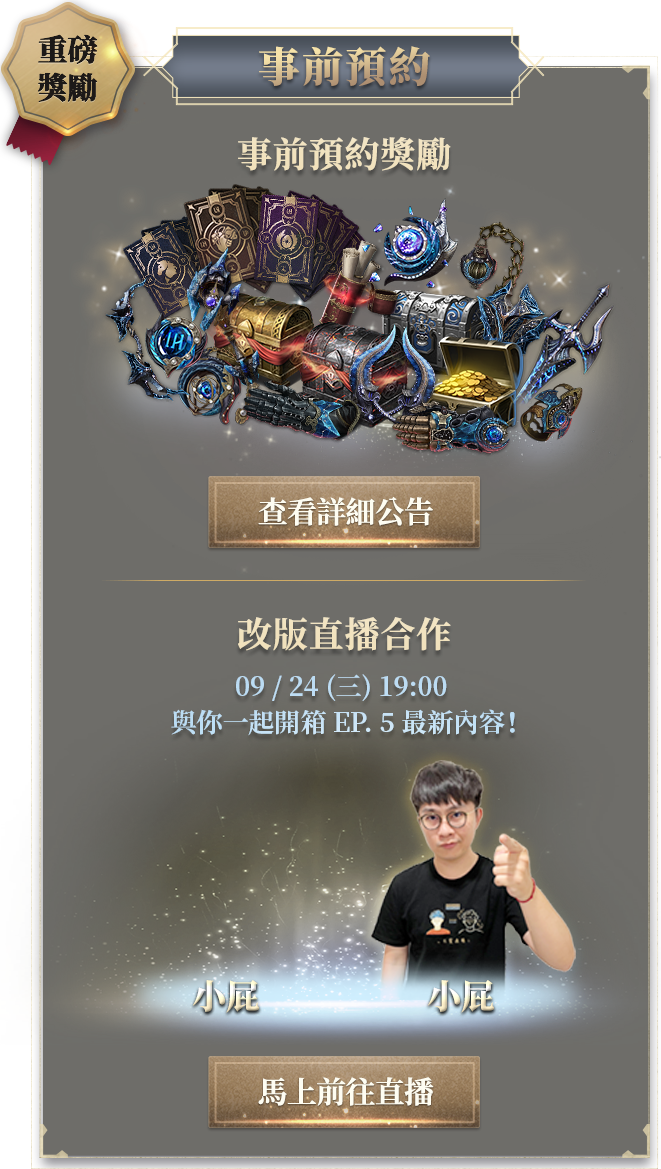
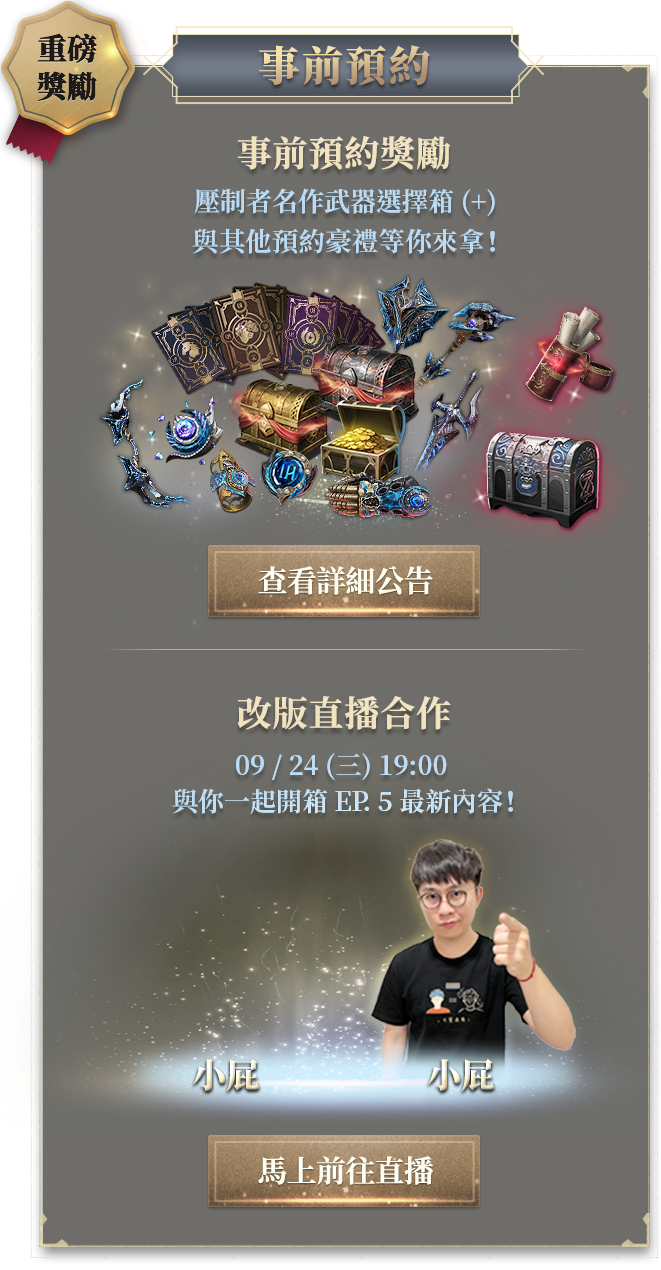
2025/08/31 version3

Changed region(s): [[0.0, 0.0, 0.9985, 0.4927], [0.0605, 0.5235, 0.9985, 1.0], [0.4841, 0.7391, 0.5144, 0.7699]]

diff --git a/index.html b/index.html
@@ -156,6 +156,18 @@
                 <ul>
                   <li>
                     <a
+                      href="https://tw.hicdn.beanfun.com/beanfun/promo/TWP/20250916K/index.html"
+                      class="event_banner_item"
+                      target="_self"
+                    >
+                      <div class="image">
+                        <img src="img/icon/banner_05.png" />
+                      </div>
+                      <div class="content">EP.5 光之皇帝降臨</div>
+                    </a>
+                  </li>
+                  <li>
+                    <a
                       href="https://warsofprasia-event.beanfun.com/EventAD/EventAD?eventAdId=10634"
                       class="event_banner_item"
                       target="_self"
@@ -200,18 +212,6 @@
                         <img src="img/icon/banner_04.jpg" />
                       </div>
                       <div class="content">10% 紅利回饋</div>
-                    </a>
-                  </li>
-                  <li>
-                    <a
-                      href="https://tw.hicdn.beanfun.com/beanfun/promo/TWP/20250916K/index.html"
-                      class="event_banner_item"
-                      target="_self"
-                    >
-                      <div class="image">
-                        <img src="img/icon/banner_05.png" />
-                      </div>
-                      <div class="content">EP.5 光之皇帝降臨</div>
                     </a>
                   </li>
                 </ul>

diff --git a/css/pc_page.css b/css/pc_page.css
@@ -126,6 +126,7 @@
         background-size: contain;
         width: 452px;
         height: 23px;
+        margin-top: -30px;
     }
 
     section .area__content ._content {
@@ -155,8 +156,8 @@
         width: 214px;
         aspect-ratio: 107 / 30;
         position: relative;
-        left: 370px;
-        top: 200px;
+        left: 368px;
+        top: 214px;
     }
 
     section .area__content ._content ._item_right .btn_up:hover {
@@ -172,7 +173,7 @@
         aspect-ratio: 107 / 30;
         position: relative;
         left: 150px;
-        top: 450px;
+        top: 443px;
     }
 
     section .area__content ._content ._item_right .btn_down:hover {
@@ -201,6 +202,10 @@
         margin-top: 30px;
     }
 
+    section .area__content ._content ._item_left .btn_left:hover {
+        background-image: url(../img/pc/btn-reserve_hover.png);
+    }
+
     section .area__content ._content ._item_left .btn_left_down {
         background-image: url(../img/pc/btn-newworld.png);
         background-position: 50% 50%;
@@ -227,8 +232,8 @@
         height: 156.5px;
         width: 374px;
         -webkit-text-size-adjust: none;
-        padding-top: 100px;
-        margin-top: 100px;
+        padding-top: 50px;
+        margin-top: 50px;
     }
 
     section .area__content .detail:hover {

diff --git a/css/mb_page.css b/css/mb_page.css
@@ -89,6 +89,7 @@
   section .area__content ._header ._period {
     width: 257.25px;
     height: 35.25px;
+    margin-top: 0px;
   }
 
   section .area__content ._content ._item_right {
@@ -142,15 +143,15 @@
   }
 
   section .area__content ._content ._item_right .btn_up {
-    width: 140.5px;
-    left: 102px;
-    top: 237px;
+    width: 127.5px;
+    left: 108px;
+    top: 250px;
   }
 
   section .area__content ._content ._item_right .btn_down {
-    width: 140.5px;
-    left: -42px;
-    top: 527px;
+    width: 128.5px;
+    left: -24px;
+    top: 522px;
   }
 
   section .area__content .detail {
